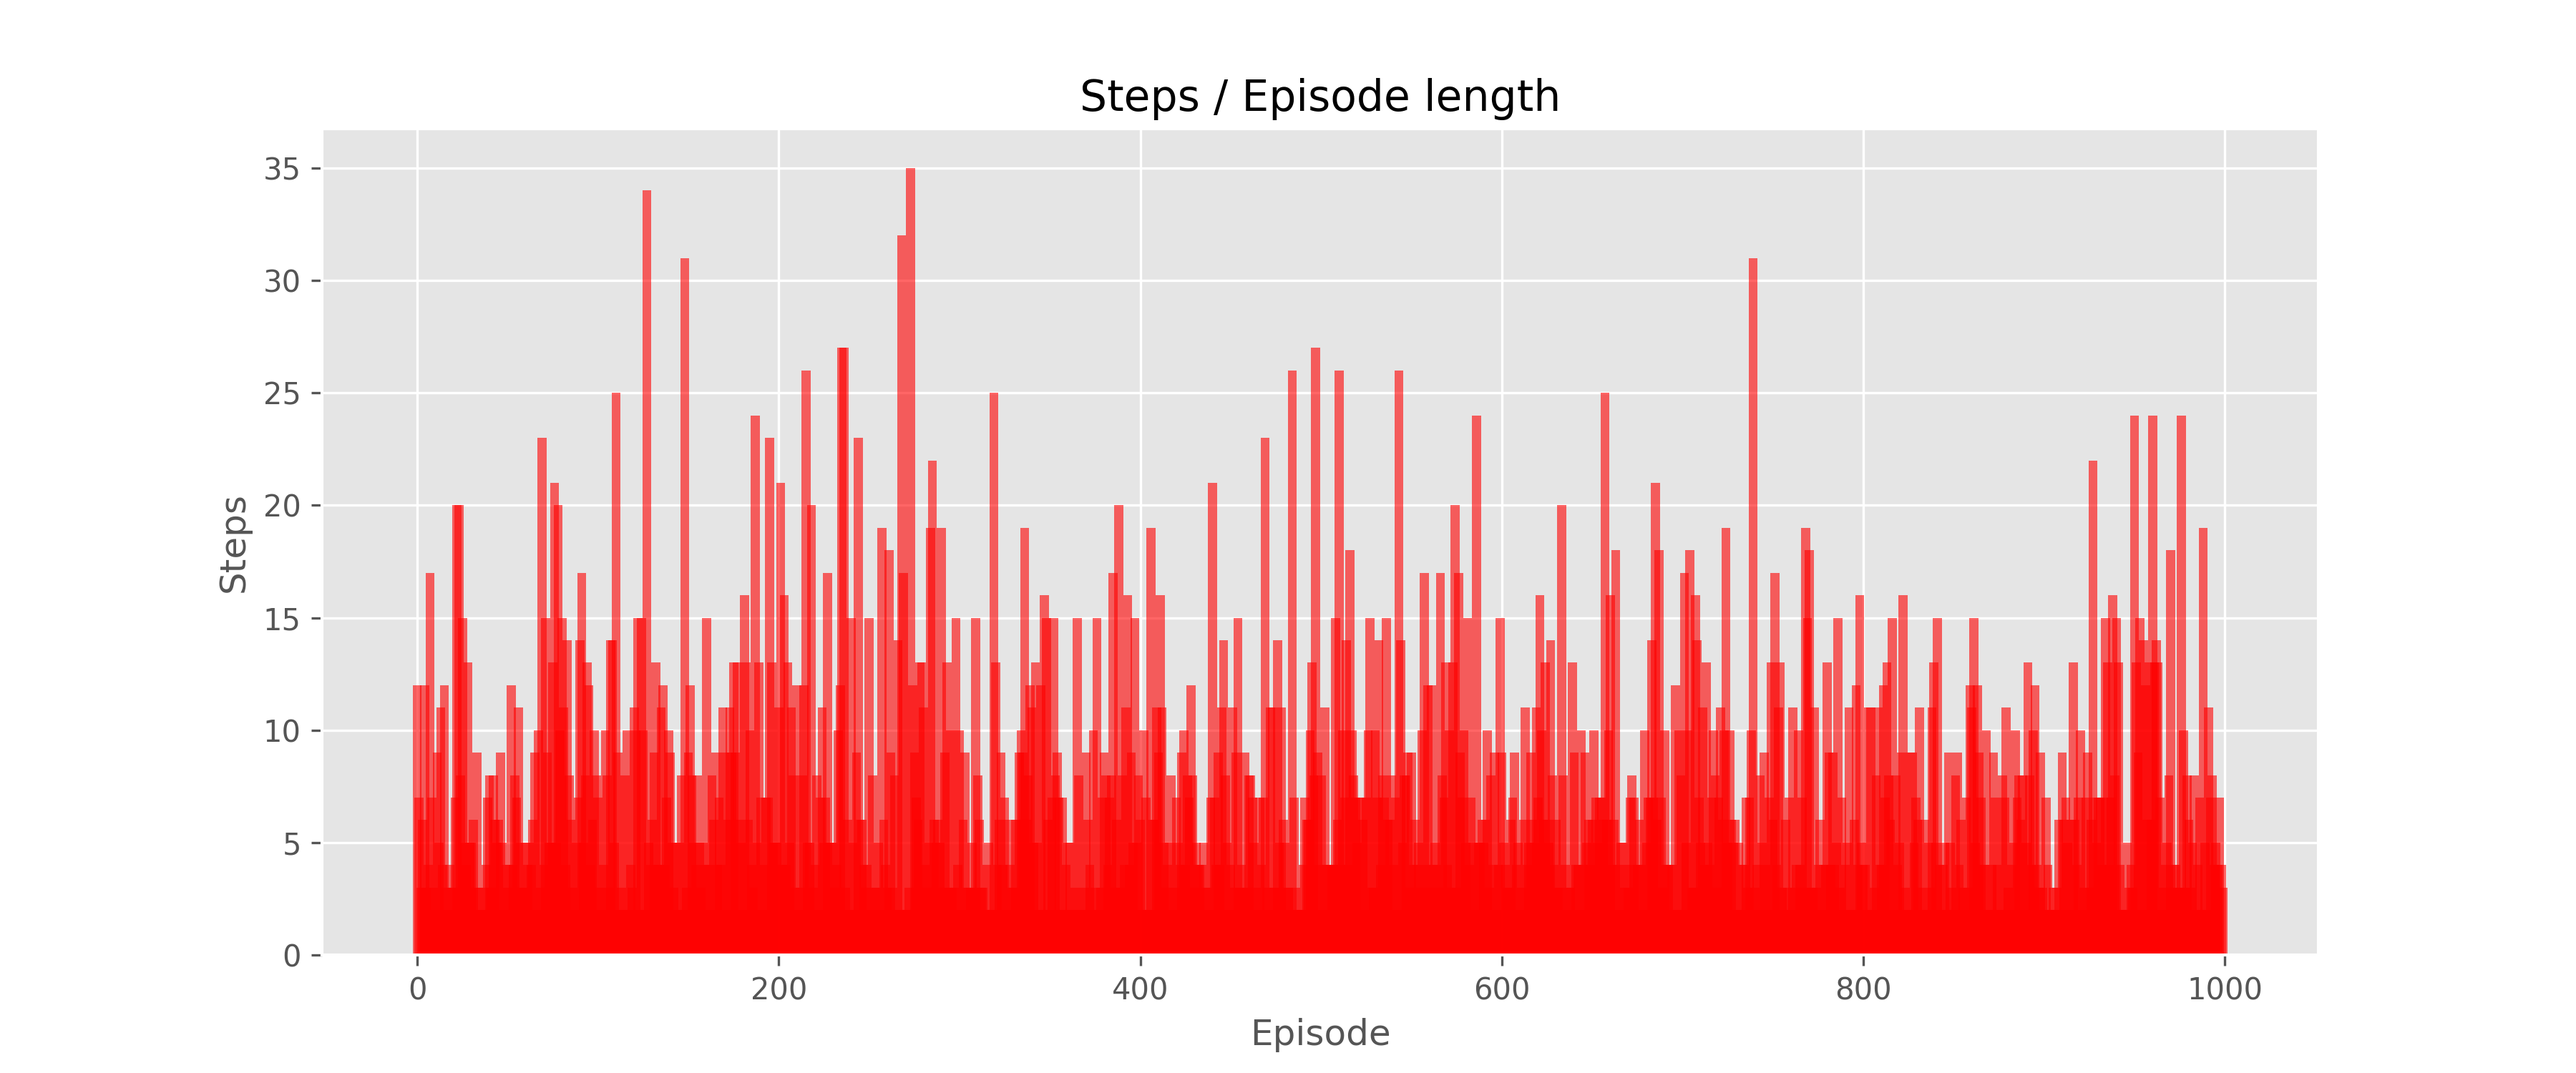
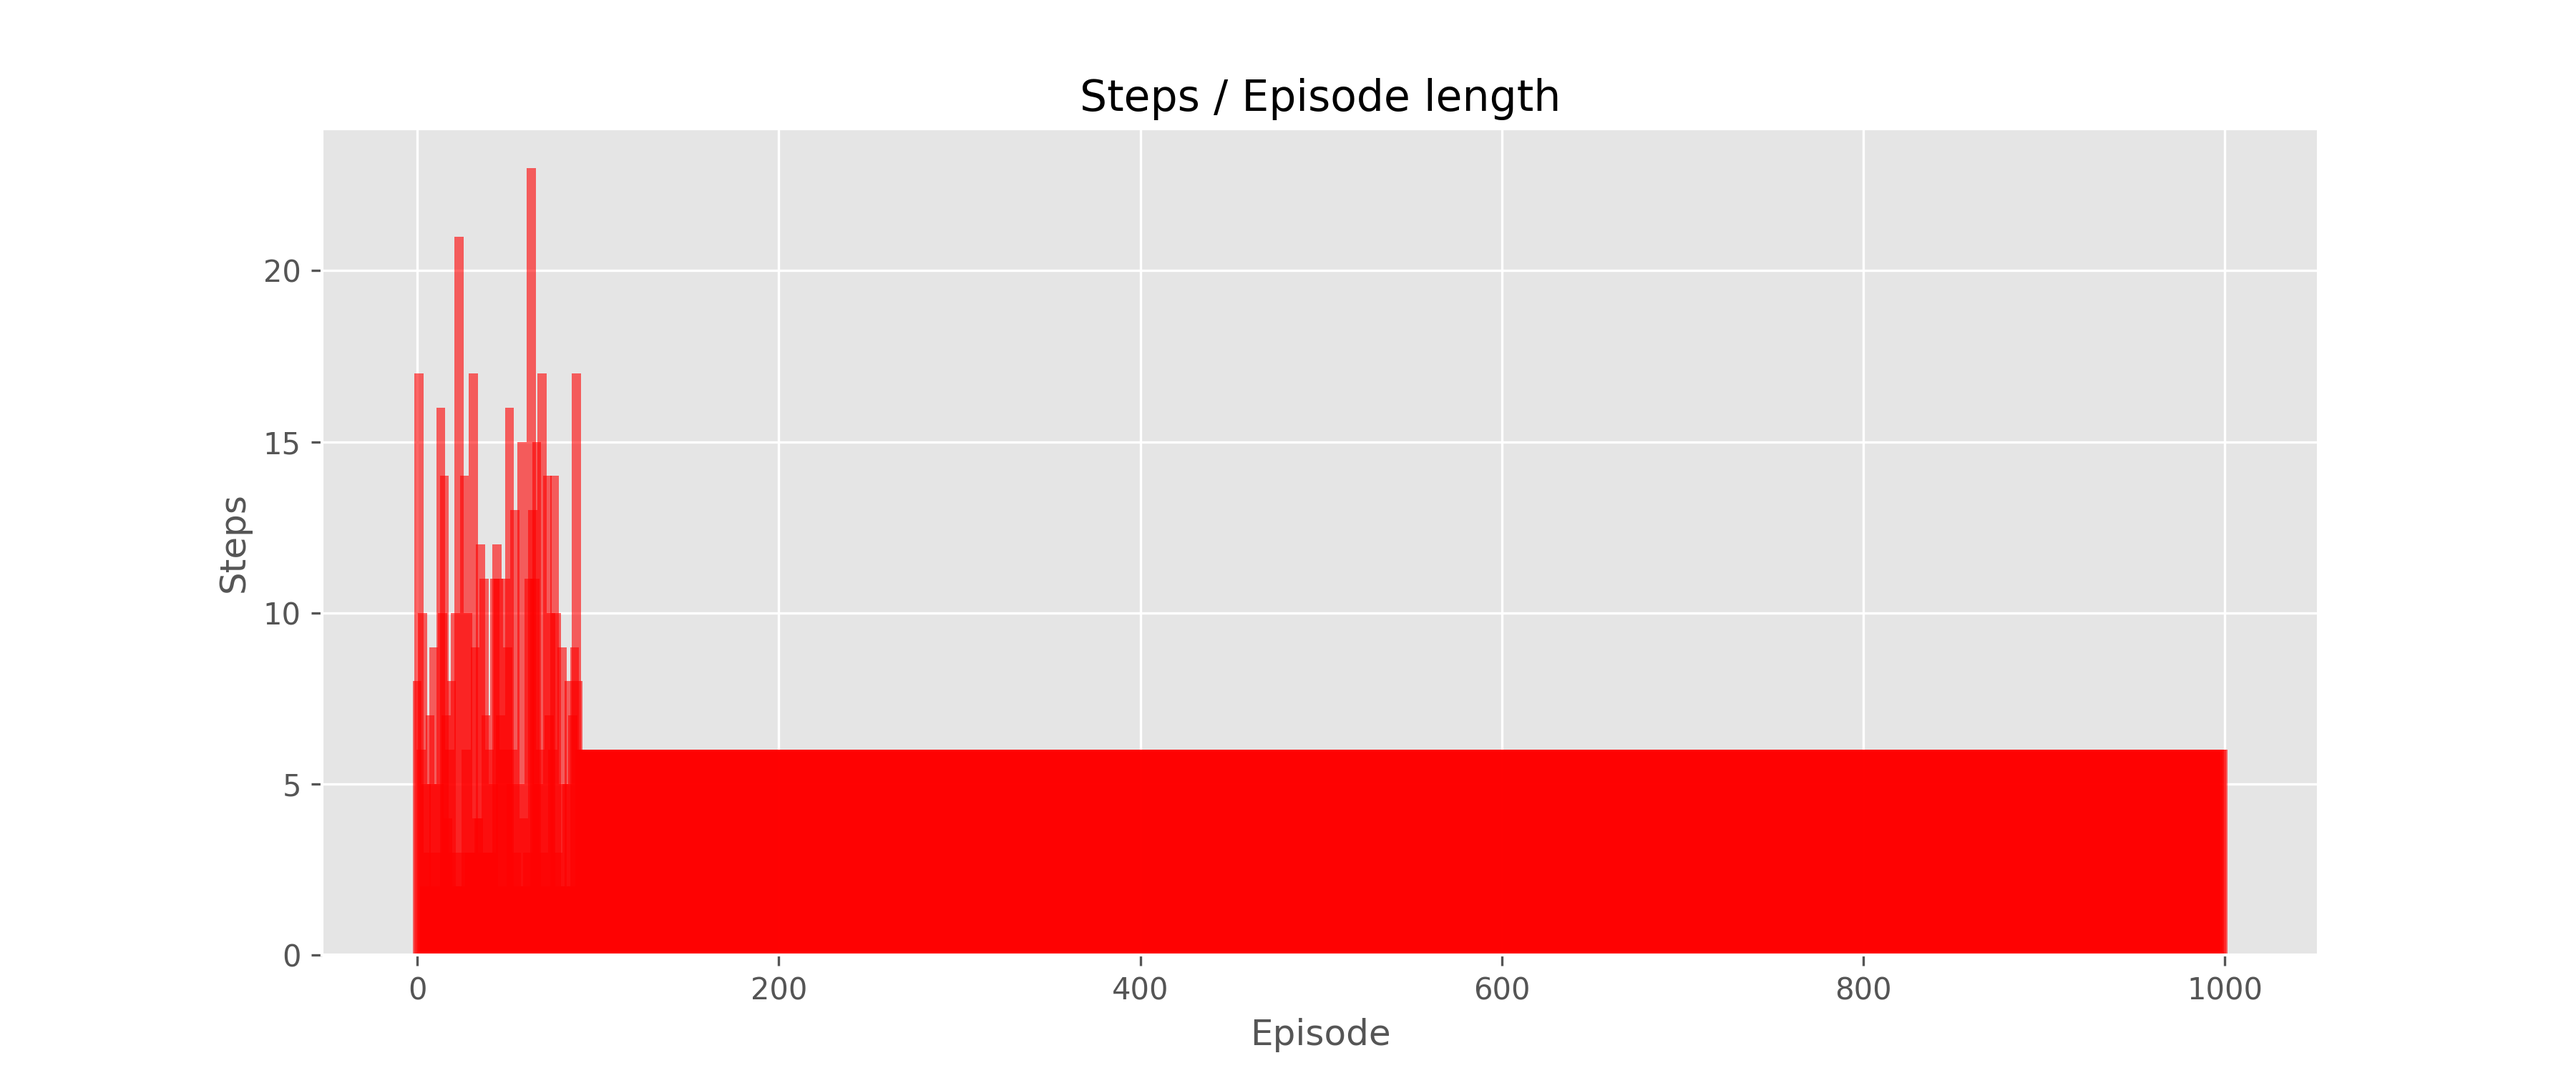
feat: Add figures to readme

Changed region(s): [[0.0933, 0.1533, 0.9022, 0.828], [0.0933, 0.46, 0.1244, 0.4907], [0.0933, 0.3987, 0.1244, 0.4293]]

diff --git a/rl05_frozen_lake_deterministic_bellman.py b/rl05_frozen_lake_deterministic_bellman.py
@@ -10,8 +10,6 @@ import matplotlib.pyplot as plt
 import torch
 from gymnasium.envs.registration import register
 
-from utils.print_q_table import print_q_table
-
 # Deterministic
 register(
     id="FrozenLakeDeterministic-v1",
@@ -41,7 +39,6 @@ rewards_total = []
 number_of_states = env.observation_space.n
 number_of_actions = env.action_space.n
 Q = torch.zeros([number_of_states, number_of_actions])  # 16x4 tensor
-print(Q)
 
 # Discount factor
 GAMMA = 1
@@ -56,21 +53,21 @@ for i_episode in range(NUM_EPISODES):
 
         step += 1
 
+        # Add very small random values to row Q[state] so that the
+        # argmax has some variability in the case all Q values are the same
+        random_values = Q[state] + torch.rand(1, number_of_actions) / 1000
+
         # action = env.action_space.sample()
-        action = torch.argmax(Q[state]).item()  # best action
+        action = torch.argmax(random_values).item()  # best action
 
         new_state, reward, terminated, truncated, info = env.step(action)
-
-        max_q_value, best_action = torch.max(Q[new_state], dim=0)
 
         # Bellman equation
         Q[state, action] = reward + GAMMA * torch.max(Q[new_state])
         # max(Q[new_state]) provides the largest Q among all Q[new_state, a].
 
         # env.render()
-        print_q_table(Q)
-        print(f"new state: {new_state}")
-        print(f"reward: {reward}")
+        # print_q_table(Q)
 
         state = new_state  # move to next state
 

diff --git a/utils/print_q_table.py b/utils/print_q_table.py
@@ -5,7 +5,7 @@ import torch
 
 def print_q_table(q_table: torch.Tensor) -> None:
     """
-    Pretty-print a Q-table.
+    Pretty-print a Q-table for Frozen Lake
 
     Args:
         q_table (torch.Tensor or np.ndarray): Q-table of shape [num_states, num_actions].

diff --git a/README.md b/README.md
@@ -33,3 +33,18 @@ $$
     -   γ≈1\gamma \approx 1: Future rewards are considered almost as important as immediate rewards.
 
 - ***r***: The **immediate reward** received after performing action *a* in state *s*.
+
+<div style="display: flex; justify-content: center; align-items: flex-start; gap: 20px;">
+    <figure style="margin: 0;">
+        <img src="https://github.com/MartinezAgullo/rl-exercises-gymnasium/blob/main/docs/rl05/rl05_steps_per_episode_before_learning.png" alt="Steps per episode before learning" style="width: 100%; max-width: 400px; display: block;">
+        <figcaption style="text-align: center; font-size: 0.9em; color: #555;">
+            Figure 1: Steps per episode before learning.
+        </figcaption>
+    </figure>
+    <figure style="margin: 0;">
+        <img src="https://github.com/MartinezAgullo/rl-exercises-gymnasium/blob/main/docs/rl05/rl05_steps_per_episode.png" alt="Steps per episode after learning" style="width: 100%; max-width: 400px; display: block;">
+        <figcaption style="text-align: center; font-size: 0.9em; color: #555;">
+            Figure 2: Steps per episode after learning.
+        </figcaption>
+    </figure>
+</div>
